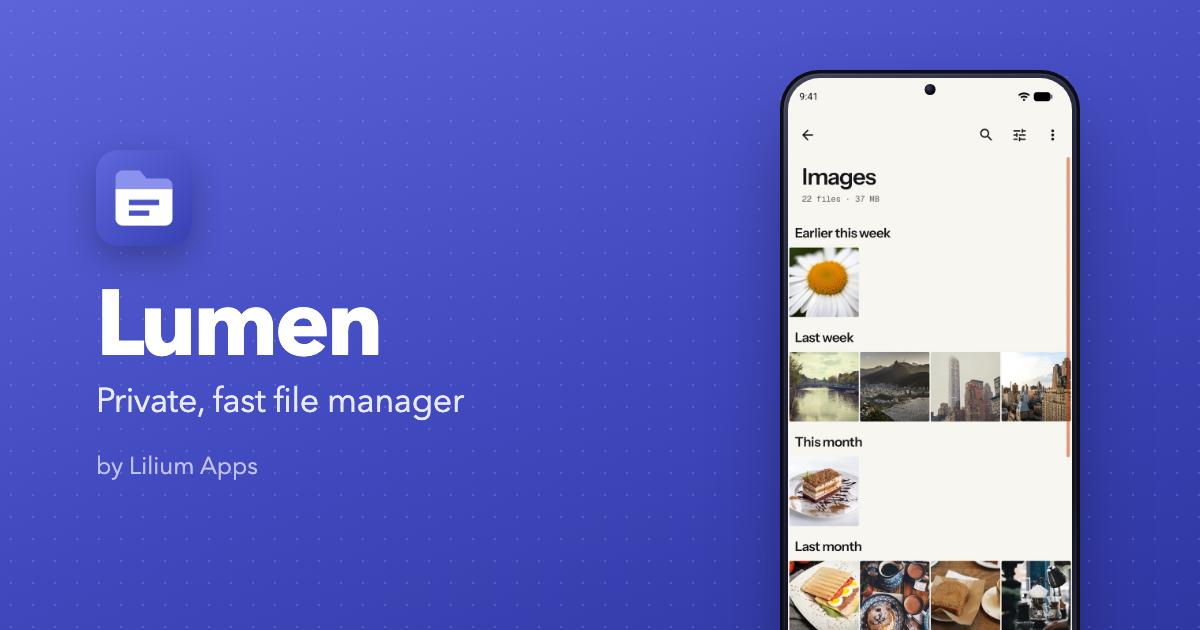
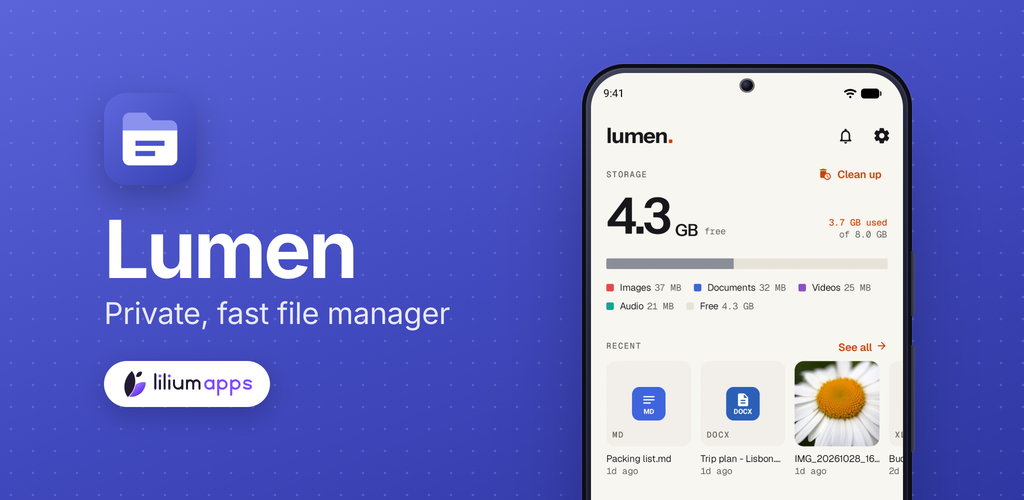
Improve site

diff --git a/src/data/content.js b/src/data/content.js
@@ -1,0 +1,102 @@
+// What the home page says about Lumen, kept here so llms.txt (gatsby-node.js)
+// says the same. Each feature has a screenshot of its own:
+// static/screens/<screen>.webp (see README).
+const features = [
+  {
+    screen: "browse",
+    eyebrow: "Browse",
+    title: "Every folder, and inside every zip",
+    body: "Internal storage, SD cards, and USB drives in lists or grids, with tabs. Open a zip, 7z, or RAR like any folder.",
+  },
+  {
+    screen: "search",
+    eyebrow: "Search",
+    title: "Find anything in seconds",
+    body: "Names, paths, and types across all your storage, with filters for size and date. The index stays on your phone.",
+  },
+  {
+    screen: "preview",
+    eyebrow: "Preview",
+    title: "Open it right here",
+    body: "PDFs, Word documents, spreadsheets, Markdown, code, e-books, music, and video, without another app.",
+  },
+  {
+    screen: "analyze",
+    eyebrow: "Free up space",
+    title: "See what's using space",
+    body: "The largest files, exact duplicates, blurry photos, and what each app keeps. Nothing goes until you review it.",
+  },
+  {
+    screen: "photos",
+    eyebrow: "Photos and videos",
+    title: "A gallery that's also a file manager",
+    body: "Every photo by day and month, full screen with a swipe, and the same move, share, and trash as any file.",
+  },
+  {
+    screen: "share",
+    eyebrow: "Share",
+    title: "Send files across your Wi-Fi",
+    body: "Between your phones with no cable and no cloud, or to any computer's browser. Off until you turn it on, and every device needs your approval.",
+  },
+]
+
+const more = [
+  ["Safe by default", "Copy and move with pause and cancel. Conflicts always ask, and the trash has undo."],
+  ["Made for your phone", "Light and dark, wallpaper colours, tablets and foldables, and 12 languages."],
+  ["Every place, one app", "Phone storage, cards, archives, folders from other apps, and the trash, side by side."],
+]
+
+const principles = [
+  ["No account", "Nothing to sign up for. Lumen works the moment you open it."],
+  ["No tracking", "No analytics, nothing that watches what you do."],
+  ["Your files stay put", "Nothing leaves your phone unless you share it, and then only to whom you choose."],
+]
+
+// Questions people ask about Lumen, answered from what the app does (its
+// manifest and the privacy policy). Shown on the home page, in its FAQ
+// structured data, and in llms.txt.
+const faq = [
+  [
+    "Does Lumen collect my data?",
+    "No. Lumen has no account, no analytics, and no crash reporting. Your files and your activity stay on your phone.",
+  ],
+  [
+    "Which phones does Lumen work on?",
+    "Android 8 and up, on phones, tablets, and foldables. It's available in 12 languages.",
+  ],
+  [
+    "Can Lumen open zip, 7z, and RAR files?",
+    "Yes. Lumen opens a zip, 7z, or RAR archive like any folder, and it can compress files and extract archives.",
+  ],
+  [
+    "Does Lumen work with SD cards and USB drives?",
+    "Yes. Internal storage, SD cards, and USB drives show up side by side, in lists or grids, with tabs.",
+  ],
+  [
+    "How do I send files from my phone to my computer without a cable?",
+    "Turn on sharing in Lumen and open the address it shows in any browser on a computer on the same Wi-Fi network, or send files to another phone running Lumen. Sharing is off until you turn it on, you approve every device on your phone, and files go directly between your devices without passing through the internet.",
+  ],
+  [
+    "How do I free up space on my phone?",
+    "Lumen's analysis shows the largest files, exact duplicates, blurry photos, and what each app keeps. Nothing is deleted until you review it.",
+  ],
+  [
+    "Can I get back a file I deleted?",
+    "Yes. Deleted files go to Lumen's trash, and you can undo a delete or restore the file from the trash.",
+  ],
+  [
+    "Why does Lumen ask for All files access?",
+    "To browse and manage files across your storage. Lumen asks only when you open a part of the app that needs it, and the permission doesn't let it read other apps' private data.",
+  ],
+]
+
+// Short facts for llms.txt.
+const facts = [
+  "On Google Play",
+  "Android 8 and up: phones, tablets, and foldables",
+  "12 languages",
+  "No account, no analytics, no crash reporting",
+  "Made by Lilium Apps (https://liliumapps.com)",
+]
+
+module.exports = { features, more, principles, faq, facts }

diff --git a/src/pages/index.js b/src/pages/index.js
@@ -3,58 +3,8 @@ import { useStaticQuery, graphql } from "gatsby"
 import Layout from "../components/Layout"
 import SiteHead from "../components/Head"
 import PhoneScreen from "../components/PhoneScreen"
-
-// Each feature has a screenshot of its own: static/screens/<screen>.webp (see README).
-const FEATURES = [
-  {
-    screen: "browse",
-    eyebrow: "Browse",
-    title: "Every folder, and inside every zip",
-    body: "Internal storage, SD cards, and USB drives in lists or grids, with tabs. Open a zip, 7z, or RAR like any folder.",
-  },
-  {
-    screen: "search",
-    eyebrow: "Search",
-    title: "Find anything in seconds",
-    body: "Names, paths, and types across all your storage, with filters for size and date. The index stays on your phone.",
-  },
-  {
-    screen: "preview",
-    eyebrow: "Preview",
-    title: "Open it right here",
-    body: "PDFs, Word documents, spreadsheets, Markdown, code, e-books, music, and video, without another app.",
-  },
-  {
-    screen: "analyze",
-    eyebrow: "Free up space",
-    title: "See what's using space",
-    body: "The largest files, exact duplicates, blurry photos, and what each app keeps. Nothing goes until you review it.",
-  },
-  {
-    screen: "photos",
-    eyebrow: "Photos and videos",
-    title: "A gallery that's also a file manager",
-    body: "Every photo by day and month, full screen with a swipe, and the same move, share, and trash as any file.",
-  },
-  {
-    screen: "share",
-    eyebrow: "Share",
-    title: "Send files across your Wi-Fi",
-    body: "Between your phones with no cable and no cloud, or to any computer's browser. Off until you turn it on, and every device needs your approval.",
-  },
-]
-
-const MORE = [
-  ["Safe by default", "Copy and move with pause and cancel. Conflicts always ask, and the trash has undo."],
-  ["Made for your phone", "Light and dark, wallpaper colours, tablets and foldables, and 12 languages."],
-  ["Every place, one app", "Phone storage, cards, archives, folders from other apps, and the trash, side by side."],
-]
-
-const PRINCIPLES = [
-  ["No account", "Nothing to sign up for. Lumen works the moment you open it."],
-  ["No tracking", "No analytics, nothing that watches what you do."],
-  ["Your files stay put", "Nothing leaves your phone unless you share it, and then only to whom you choose."],
-]
+import Faq, { faqJsonLd } from "../components/Faq"
+import { features, more, principles, faq } from "../data/content"
 
 export default function Home() {
   const { site } = useStaticQuery(graphql`
@@ -100,7 +50,7 @@ export default function Home() {
         <p className="eyebrow center">What you get</p>
         <h2 className="center">A file manager that feels like the rest of your phone</h2>
         <div className="bento">
-          {FEATURES.map(({ screen, eyebrow, title, body }) => (
+          {features.map(({ screen, eyebrow, title, body }) => (
             <article key={screen} className="feature">
               <div className="feature-media">
                 <PhoneScreen name={screen} label={title} />
@@ -114,7 +64,7 @@ export default function Home() {
           ))}
         </div>
         <div className="more">
-          {MORE.map(([title, body]) => (
+          {more.map(([title, body]) => (
             <div key={title}>
               <h4>{title}</h4>
               <p>{body}</p>
@@ -127,7 +77,7 @@ export default function Home() {
         <p className="eyebrow center">Principles</p>
         <h2 className="center">Your files belong to you, not to an app</h2>
         <div className="principle-grid">
-          {PRINCIPLES.map(([title, body]) => (
+          {principles.map(([title, body]) => (
             <div key={title} className="principle">
               <h3>{title}</h3>
               <p>{body}</p>
@@ -135,6 +85,8 @@ export default function Home() {
           ))}
         </div>
       </section>
+
+      <Faq items={faq} />
 
       <section className="cta">
         <h2>Try Lumen today</h2>
@@ -162,4 +114,6 @@ const JSON_LD = {
   author: { "@type": "Organization", name: "Lilium Apps", url: "https://liliumapps.com" },
 }
 
-export const Head = ({ location }) => <SiteHead pathname={location.pathname} jsonLd={JSON_LD} />
+export const Head = ({ location }) => (
+  <SiteHead pathname={location.pathname} jsonLd={[JSON_LD, faqJsonLd(faq)]} />
+)

diff --git a/gatsby-node.js b/gatsby-node.js
@@ -1,15 +1,22 @@
 const fs = require("fs")
 const path = require("path")
+const { features, more, faq, facts } = require("./src/data/content")
 
-// Writes public/sitemap.xml (every page except 404s) and public/robots.txt,
-// which points crawlers at it. Submit https://<site>/sitemap.xml in Google
-// Search Console.
+// Writes, into public/:
+// - sitemap.xml (every page except 404s) and robots.txt, which points crawlers
+//   at it. Submit https://<site>/sitemap.xml in Google Search Console.
+// - llms.txt (https://llmstxt.org): what Lumen is, for AI assistants, from the
+//   same words as the home page (src/data/content.js).
 exports.onPostBuild = async ({ graphql }) => {
   const { data } = await graphql(`
     query {
       site {
         siteMetadata {
+          title
+          description
           siteUrl
+          googlePlay
+          studio
         }
       }
       allSitePage {
@@ -19,7 +26,8 @@ exports.onPostBuild = async ({ graphql }) => {
       }
     }
   `)
-  const siteUrl = data.site.siteMetadata.siteUrl
+  const meta = data.site.siteMetadata
+  const siteUrl = meta.siteUrl
   const urls = data.allSitePage.nodes
     .map(node => node.path)
     .filter(p => !/^\/(404|dev-404-page)/.test(p))
@@ -35,6 +43,29 @@ Allow: /
 
 Sitemap: ${siteUrl}/sitemap.xml
 `
+  const llms = `# ${meta.title}
+
+> ${meta.title} is a file manager for Android by Lilium Apps. ${meta.description}
+
+${facts.map(f => `- ${f}`).join("\n")}
+
+## Features
+
+${features.map(f => `- ${f.title}: ${f.body}`).join("\n")}
+${more.map(([title, body]) => `- ${title}: ${body}`).join("\n")}
+
+## FAQ
+
+${faq.map(([q, a]) => `### ${q}\n\n${a}`).join("\n\n")}
+
+## Links
+
+- [${meta.title} on Google Play](${meta.googlePlay}): install the app
+- [Home page](${siteUrl}/): features and screenshots
+- [Privacy policy](${siteUrl}/privacy/): what the app does with your information
+- [Lilium Apps](${meta.studio}/): the studio that makes ${meta.title}, and its other apps
+`
   fs.writeFileSync(path.join("public", "sitemap.xml"), sitemap)
   fs.writeFileSync(path.join("public", "robots.txt"), robots)
+  fs.writeFileSync(path.join("public", "llms.txt"), llms)
 }

diff --git a/src/components/Faq.js b/src/components/Faq.js
@@ -1,0 +1,33 @@
+import React from "react"
+
+/**
+ * Questions and answers ([question, answer] pairs), open in the page's HTML so
+ * search engines and AI assistants can read them; faqJsonLd gives the same
+ * pairs as FAQPage structured data.
+ */
+export default function Faq({ items }) {
+  return (
+    <section id="faq" className="section faq">
+      <p className="eyebrow center">Questions</p>
+      <h2 className="center">Frequently asked questions</h2>
+      <div className="faq-list">
+        {items.map(([question, answer]) => (
+          <details key={question}>
+            <summary>{question}</summary>
+            <p>{answer}</p>
+          </details>
+        ))}
+      </div>
+    </section>
+  )
+}
+
+export const faqJsonLd = items => ({
+  "@context": "https://schema.org",
+  "@type": "FAQPage",
+  mainEntity: items.map(([question, answer]) => ({
+    "@type": "Question",
+    name: question,
+    acceptedAnswer: { "@type": "Answer", text: answer },
+  })),
+})

diff --git a/src/styles/global.css b/src/styles/global.css
@@ -417,6 +417,51 @@ main > .section,
   color: var(--ink-soft);
 }
 
+/* FAQ: each question opens in place; the answers are in the HTML either way. */
+.faq-list {
+  max-width: 760px;
+  margin: 0 auto;
+  border-top: 1px solid var(--line);
+}
+
+.faq details {
+  border-bottom: 1px solid var(--line);
+}
+
+.faq summary {
+  display: flex;
+  justify-content: space-between;
+  align-items: center;
+  gap: 16px;
+  padding: 20px 4px;
+  cursor: pointer;
+  list-style: none;
+  font-weight: 600;
+  font-size: 1.08rem;
+}
+
+.faq summary::-webkit-details-marker {
+  display: none;
+}
+
+.faq summary::after {
+  content: "+";
+  flex: 0 0 auto;
+  color: var(--accent);
+  font-size: 1.5rem;
+  font-weight: 400;
+  line-height: 1;
+}
+
+.faq details[open] summary::after {
+  content: "−";
+}
+
+.faq details p {
+  margin: 0 4px 22px;
+  color: var(--ink-soft);
+}
+
 .cta {
   max-width: var(--width);
   margin: 112px auto 0;

diff --git a/src/components/Head.js b/src/components/Head.js
@@ -33,8 +33,8 @@ export default function SiteHead({ title, description, pathname, jsonLd }) {
       <meta property="og:description" content={summary} />
       {url && <meta property="og:url" content={url} />}
       <meta property="og:image" content={image} />
-      <meta property="og:image:width" content="1200" />
-      <meta property="og:image:height" content="630" />
+      <meta property="og:image:width" content="1024" />
+      <meta property="og:image:height" content="500" />
       <meta property="og:type" content="website" />
       <meta name="twitter:card" content="summary_large_image" />
       <meta name="twitter:title" content={fullTitle} />

diff --git a/src/components/Layout.js b/src/components/Layout.js
@@ -25,6 +25,7 @@ export default function Layout({ children }) {
           </Link>
           <nav>
             <a href="/#features">Features</a>
+            <a href="/#faq">FAQ</a>
             <Link to="/privacy/">Privacy</Link>
             <a className="nav-cta" href={googlePlay}>
               Get the app

diff --git a/README.md b/README.md
@@ -11,7 +11,8 @@ npm run build     # static site in public/
 
 Pushing `main` deploys to GitHub Pages. Icons in `static/` come from the
 app's Play listing (`LumenFileManager` repo, generated by
-`branding/apps/lumen-files/store.mjs`).
+`branding/apps/lumen-files/store.mjs`). The social image, `og-image.png`, is the
+Play feature graphic (`branding/listing`); copy it again when that changes.
 
 The landing page shows the app in phone frames (`src/components/PhoneScreen.js`):
 `static/screens/<name>.webp`, 720 × 1616 screenshots of the release build with
